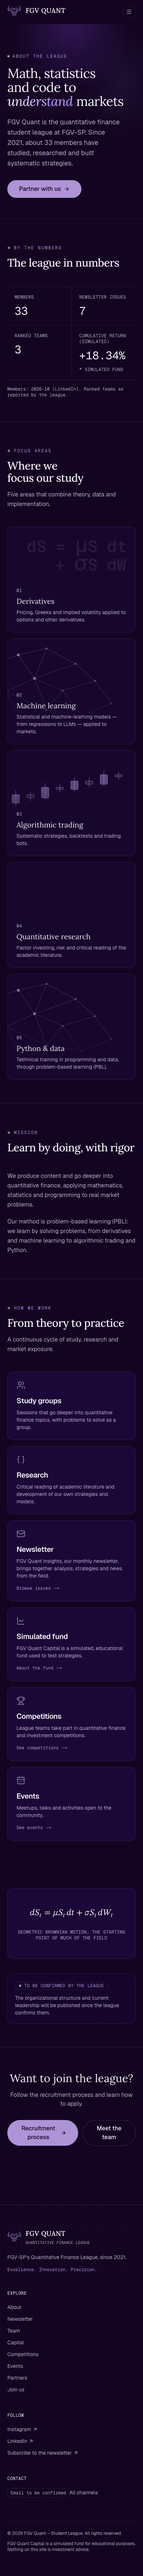
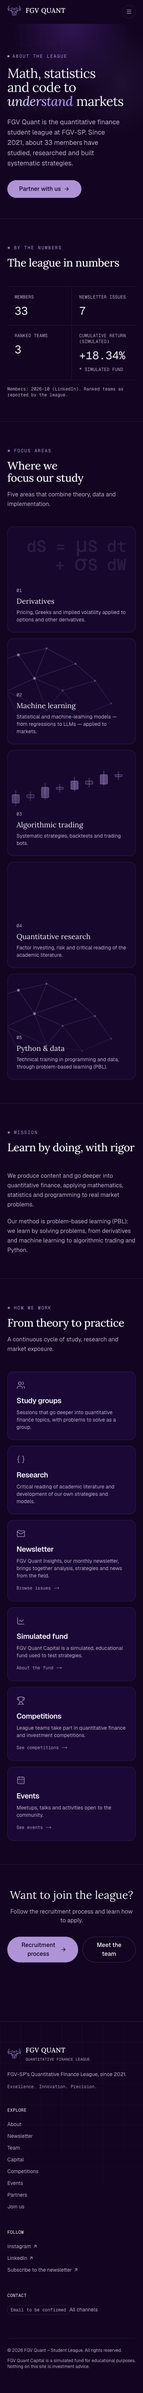
Sobre: remove the equation section
The geometric Brownian motion block didn't help readers understand the
league and sat between "Como trabalhamos" and the join CTA. The structure
pending note went with it; the Time page carries the same disclosure and the
CTA links there. The equation component is binned outside the repo; its
three message keys are removed. Refreshed Sobre screenshots.

diff --git a/src/app/[locale]/sobre/page.tsx b/src/app/[locale]/sobre/page.tsx
@@ -16,7 +16,6 @@ import { pageAlternates } from "@/lib/seo";
 import { PageIntro } from "@/components/layout/page-intro";
 import { Em, SectionHeader } from "@/components/ui/section-header";
 import { ButtonLink } from "@/components/ui/button";
-import { PlaceholderNote } from "@/components/ui/placeholder-note";
 import {
   BentoCard,
   BentoGrid,
@@ -25,7 +24,6 @@ import {
   NodeGraphBg,
 } from "@/components/sections/bento-grid";
 import { KpiStrip } from "@/components/sections/kpi-strip";
-import { Equation } from "./_components/equation";
 
 export async function generateMetadata(): Promise<Metadata> {
   const t = await getTranslations("About");
@@ -184,13 +182,6 @@ export default async function AboutPage() {
             );
           })}
         </ul>
-      </section>
-
-      <section className="container-page section-y">
-        <Equation caption={t("equationCaption")} label={t("equationLabel")} />
-        <PlaceholderNote label={tCommon("pending")} className="mt-10">
-          {t("structurePending")}
-        </PlaceholderNote>
       </section>
 
       <section className="container-page border-t border-border section-y text-center">
